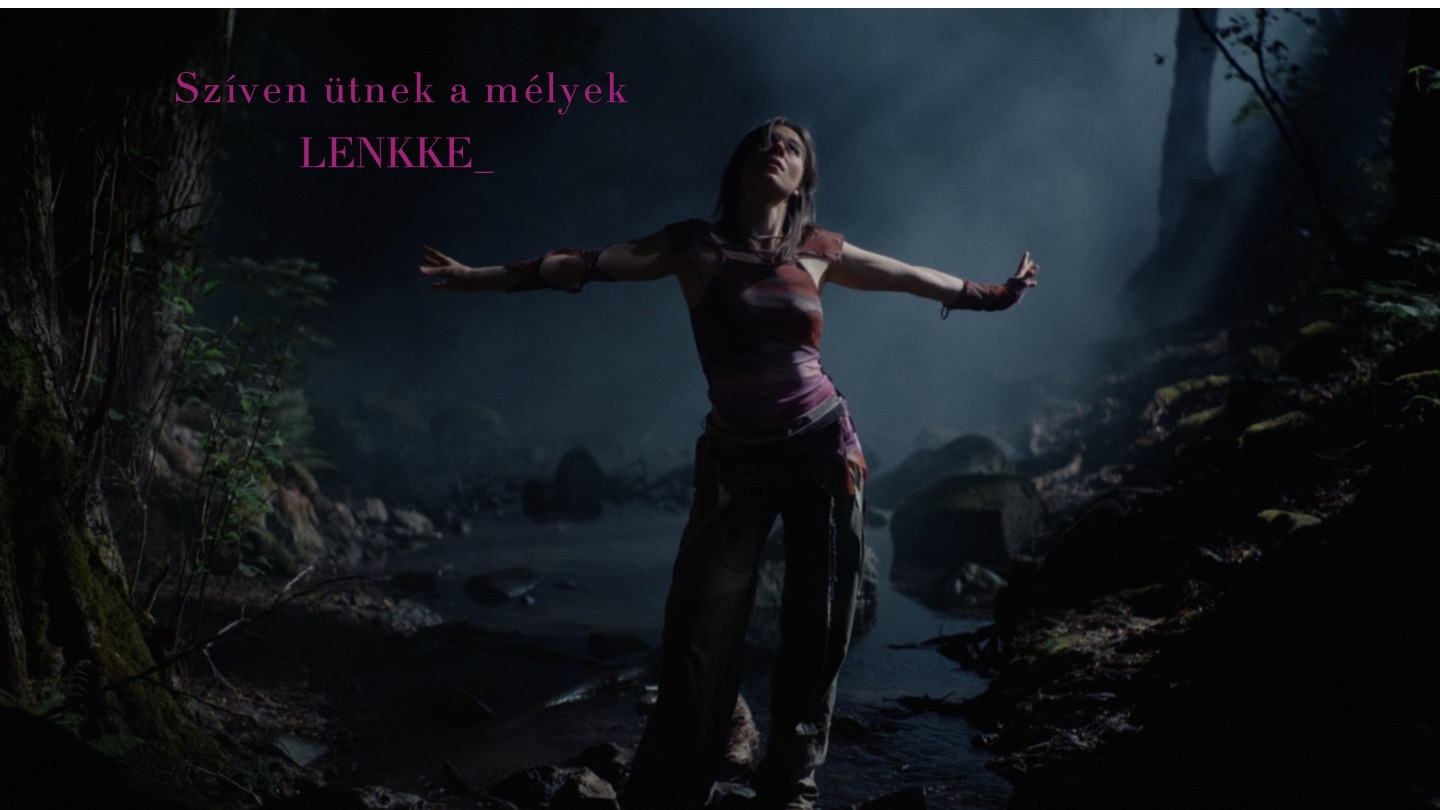
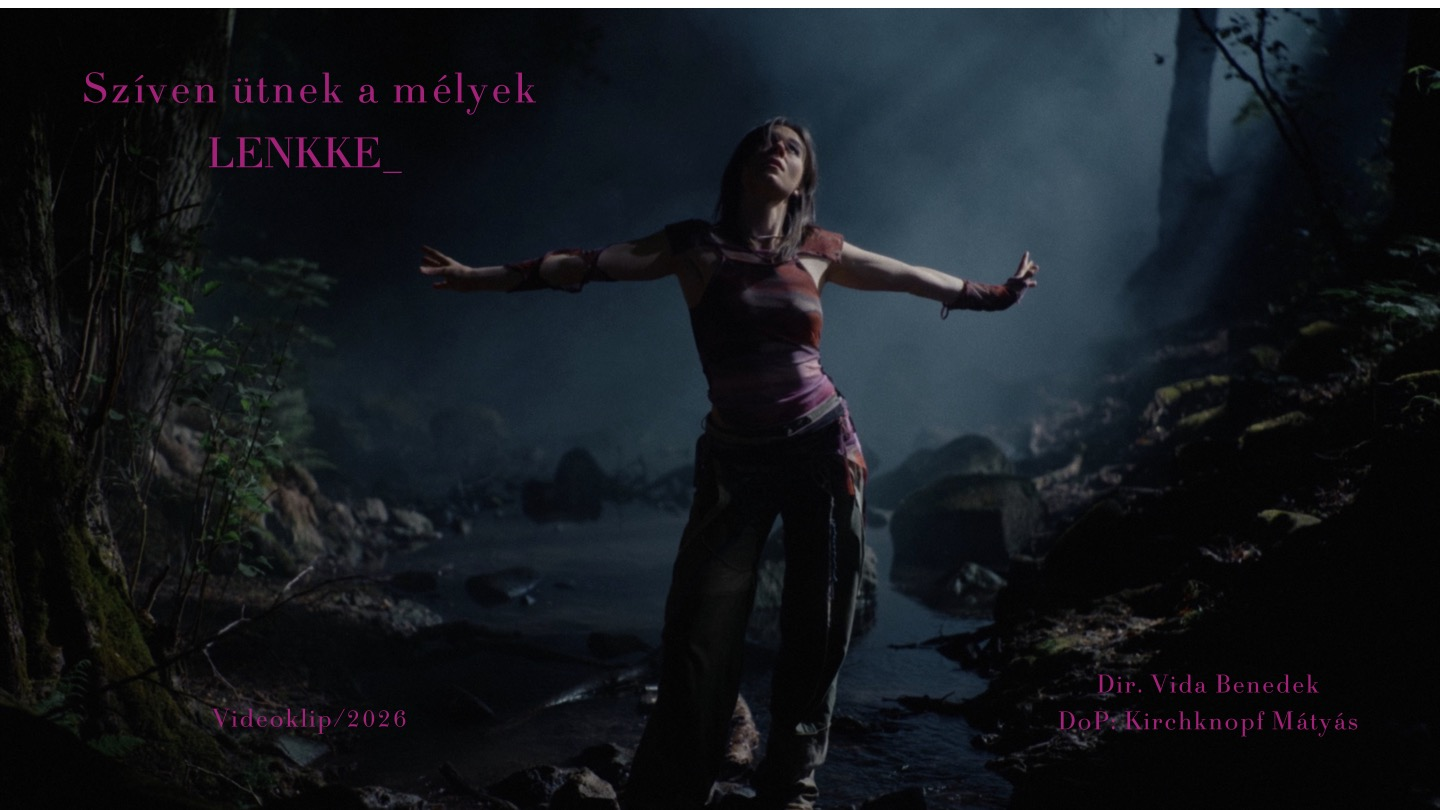
more still

Changed region(s): [[0.0625, 0.0926, 0.4375, 0.216], [0.7188, 0.8333, 0.9375, 0.9259], [0.1562, 0.8642, 0.2812, 0.8951]]

diff --git a/elso-oldal.html b/elso-oldal.html
@@ -200,6 +200,12 @@
 
             <div class="videoclip-gallery">
               <figure class="videoclip-shot">
+                <a href="https://www.youtube.com/watch?v=KUAKet2wHBo&list=RDKUAKet2wHBo&start_radio=1" target="_blank" rel="noopener noreferrer" aria-label="Watch LENKKE music video on YouTube">
+                  <img src="optimized/lenkke-1280.jpg" alt="Music video frame directed by Vida Benedek for LENKKE" width="1440" height="810" loading="lazy" decoding="async">
+                </a>
+              </figure>
+
+              <figure class="videoclip-shot">
                 <a href="https://www.youtube.com/watch?v=rQDjx8vkRmA&list=RDrQDjx8vkRmA&start_radio=1" target="_blank" rel="noopener noreferrer" aria-label="Watch Szlimmy - You Wouldn't Be Yourself on YouTube">
                   <img src="optimized/videoclip-001-1280.jpg" alt="Music video frame directed by Vida Benedek for Szlimmy - You Wouldn't Be Yourself" width="1280" height="720" loading="lazy" decoding="async">
                 </a>
@@ -220,12 +226,6 @@
               <figure class="videoclip-shot">
                 <a href="https://www.youtube.com/watch?v=yd0roFBKNnw&list=RDyd0roFBKNnw&start_radio=1" target="_blank" rel="noopener noreferrer" aria-label="Watch Ohnody - Hideg 2 on YouTube">
                   <img src="optimized/videoclip-005-1280.jpg" alt="Music video frame directed by Vida Benedek for Ohnody - Hideg 2" width="1280" height="720" loading="lazy" decoding="async">
-                </a>
-              </figure>
-
-              <figure class="videoclip-shot">
-                <a href="https://www.youtube.com/watch?v=KUAKet2wHBo&list=RDKUAKet2wHBo&start_radio=1" target="_blank" rel="noopener noreferrer" aria-label="Watch LENKKE music video on YouTube">
-                  <img src="optimized/lenkke-1280.jpg" alt="Music video frame directed by Vida Benedek for LENKKE" width="1440" height="810" loading="lazy" decoding="async">
                 </a>
               </figure>
             </div>

diff --git a/index.html b/index.html
@@ -200,6 +200,12 @@
 
             <div class="videoclip-gallery">
               <figure class="videoclip-shot">
+                <a href="https://www.youtube.com/watch?v=KUAKet2wHBo&list=RDKUAKet2wHBo&start_radio=1" target="_blank" rel="noopener noreferrer" aria-label="Watch LENKKE music video on YouTube">
+                  <img src="optimized/lenkke-1280.jpg" alt="Music video frame directed by Vida Benedek for LENKKE" width="1440" height="810" loading="lazy" decoding="async">
+                </a>
+              </figure>
+
+              <figure class="videoclip-shot">
                 <a href="https://www.youtube.com/watch?v=rQDjx8vkRmA&list=RDrQDjx8vkRmA&start_radio=1" target="_blank" rel="noopener noreferrer" aria-label="Watch Szlimmy - You Wouldn't Be Yourself on YouTube">
                   <img src="optimized/videoclip-001-1280.jpg" alt="Music video frame directed by Vida Benedek for Szlimmy - You Wouldn't Be Yourself" width="1280" height="720" loading="lazy" decoding="async">
                 </a>
@@ -220,12 +226,6 @@
               <figure class="videoclip-shot">
                 <a href="https://www.youtube.com/watch?v=yd0roFBKNnw&list=RDyd0roFBKNnw&start_radio=1" target="_blank" rel="noopener noreferrer" aria-label="Watch Ohnody - Hideg 2 on YouTube">
                   <img src="optimized/videoclip-005-1280.jpg" alt="Music video frame directed by Vida Benedek for Ohnody - Hideg 2" width="1280" height="720" loading="lazy" decoding="async">
-                </a>
-              </figure>
-
-              <figure class="videoclip-shot">
-                <a href="https://www.youtube.com/watch?v=KUAKet2wHBo&list=RDKUAKet2wHBo&start_radio=1" target="_blank" rel="noopener noreferrer" aria-label="Watch LENKKE music video on YouTube">
-                  <img src="optimized/lenkke-1280.jpg" alt="Music video frame directed by Vida Benedek for LENKKE" width="1440" height="810" loading="lazy" decoding="async">
                 </a>
               </figure>
             </div>

diff --git a/script.js b/script.js
@@ -69,6 +69,23 @@ const clipFrameFiles = [
   "Still 2026-04-17 161445_1.1.5.jpg",
   "Still 2026-04-17 161445_1.1.7.jpg",
   "Still 2026-04-17 161445_1.1.8.jpg",
+  "lenkke-frame-001.jpg",
+  "lenkke-frame-002.jpg",
+  "lenkke-frame-003.jpg",
+  "lenkke-frame-004.jpg",
+  "lenkke-frame-005.jpg",
+  "lenkke-frame-006.jpg",
+  "lenkke-frame-007.jpg",
+  "lenkke-frame-008.jpg",
+  "lenkke-frame-009.jpg",
+  "lenkke-frame-010.jpg",
+  "lenkke-frame-011.jpg",
+  "lenkke-frame-012.jpg",
+  "lenkke-frame-013.jpg",
+  "lenkke-frame-014.jpg",
+  "lenkke-frame-015.jpg",
+  "lenkke-frame-016.jpg",
+  "lenkke-frame-017.jpg",
 ];
 const clipFrameSources = clipFrameFiles.map((fileName) => `${clipFrameDirectory}${fileName}`);
 const clipFrameMobileSources = clipFrameFiles.map((_, index) => {
